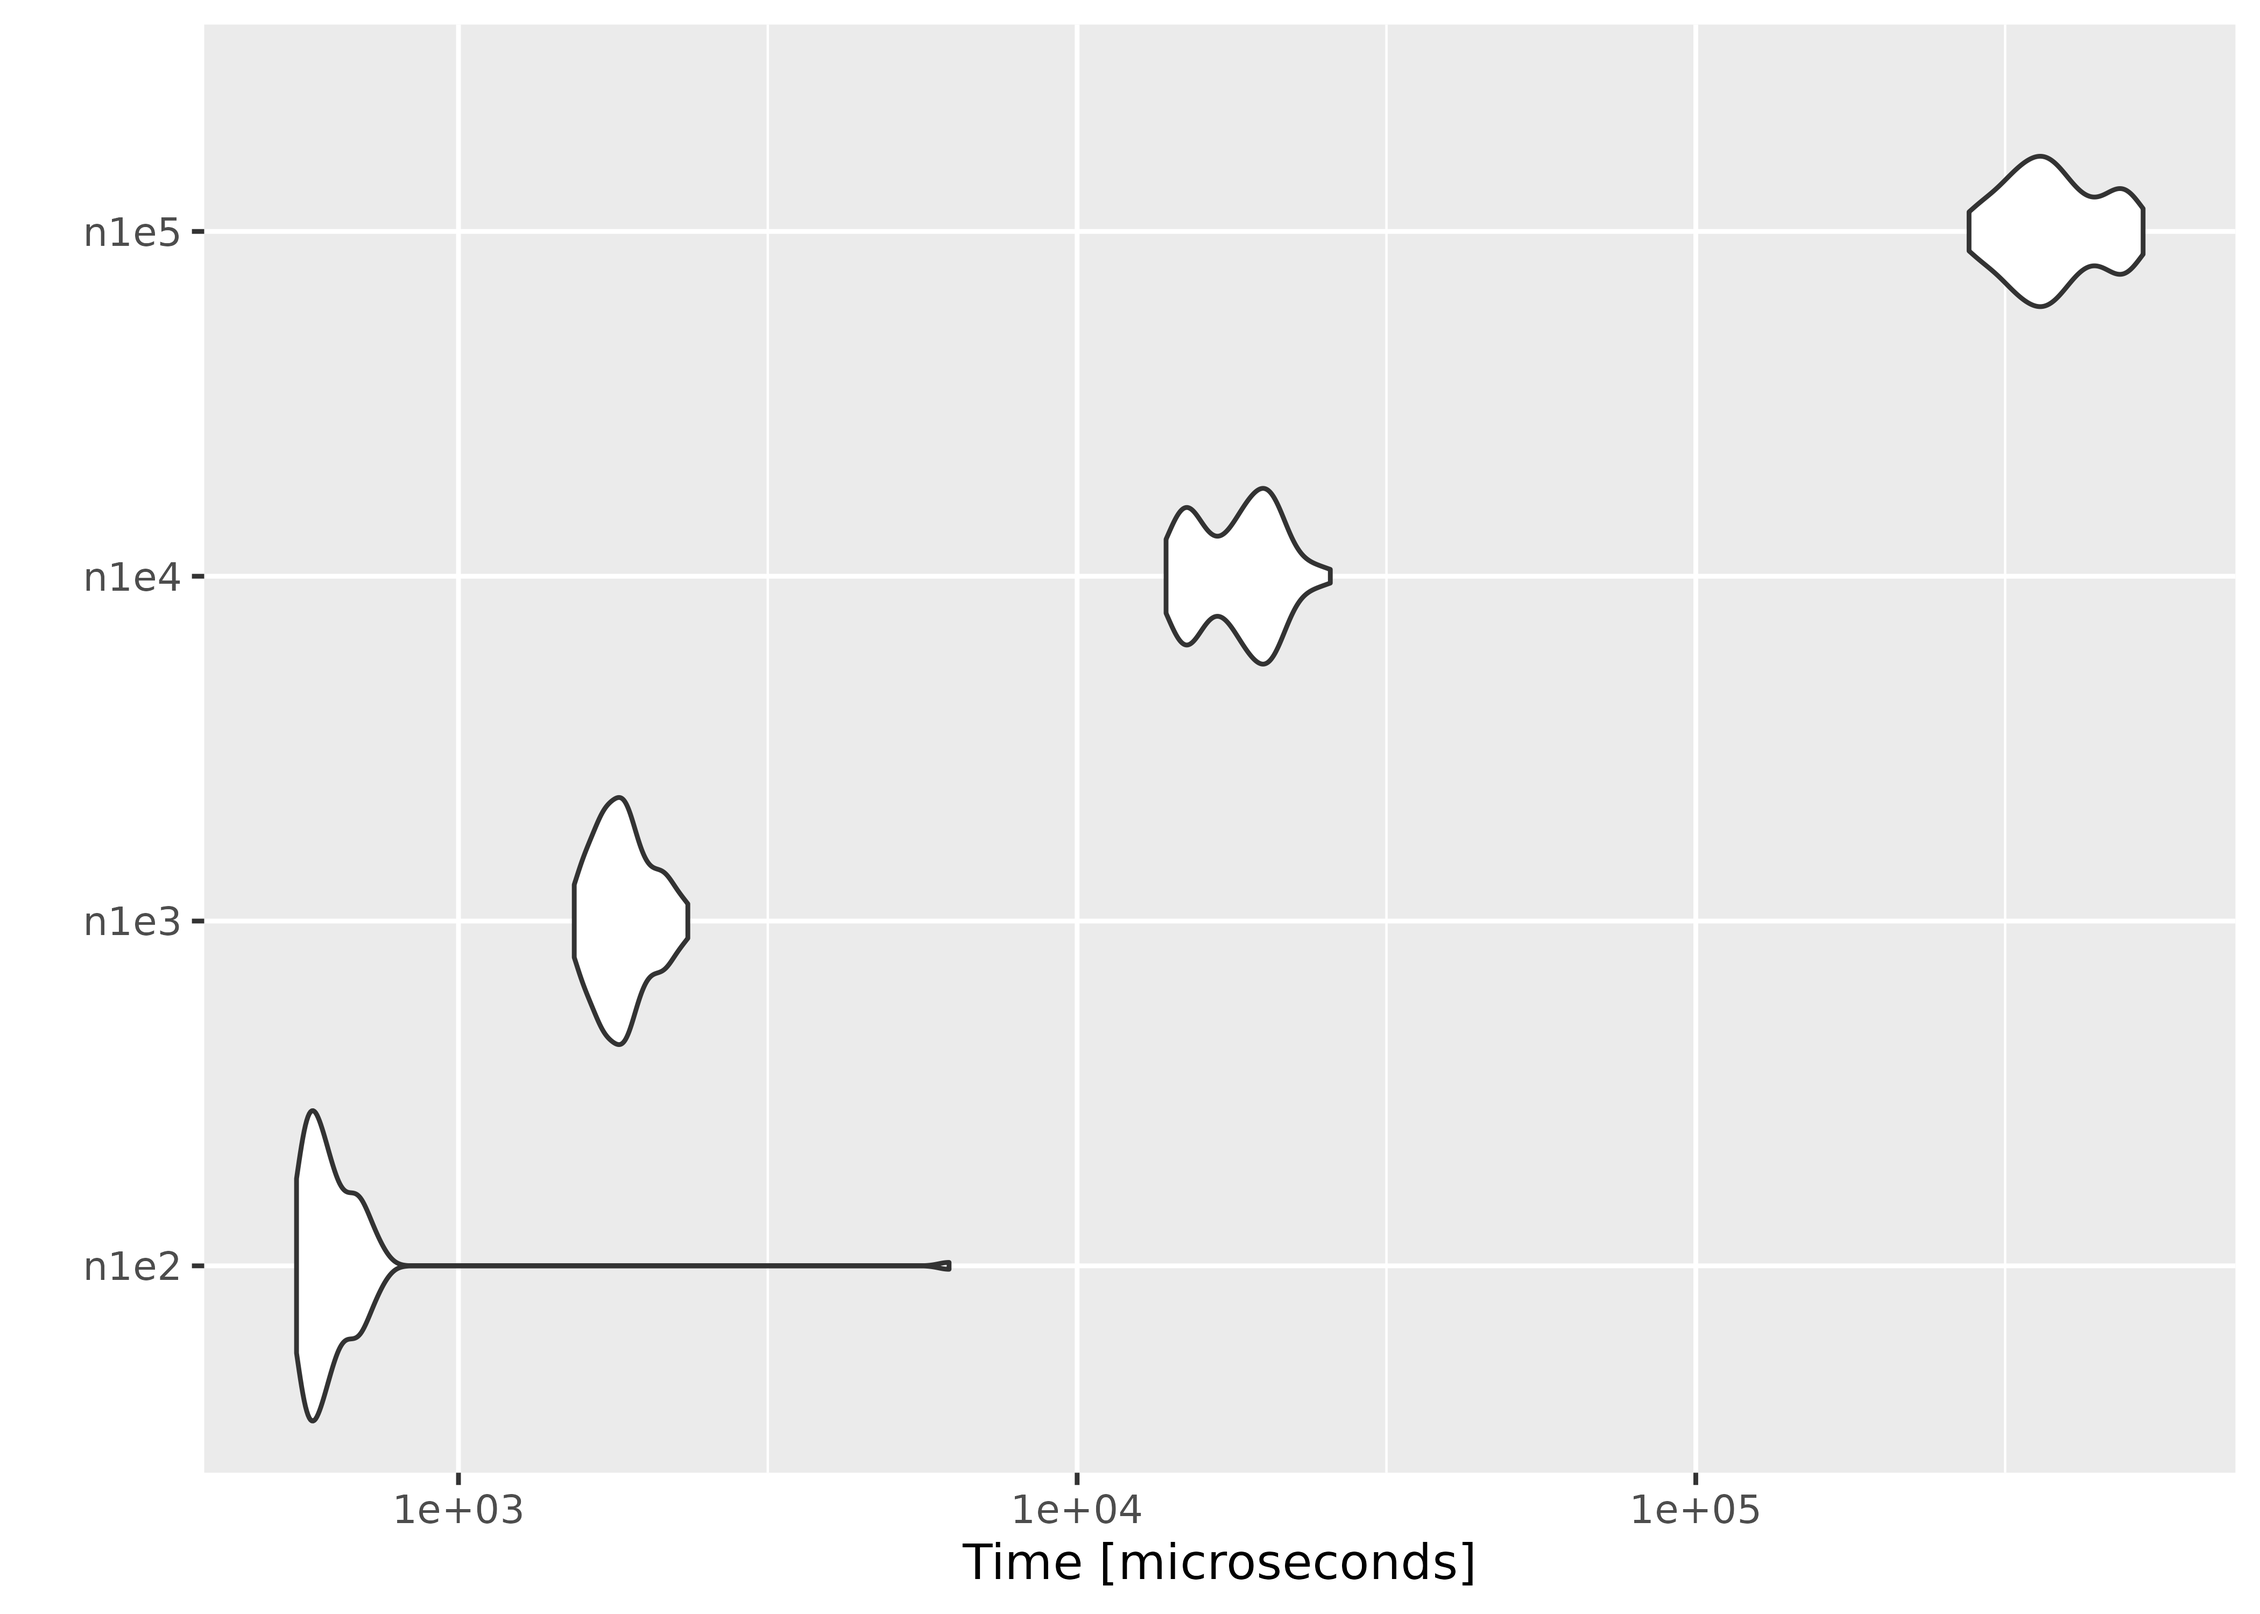
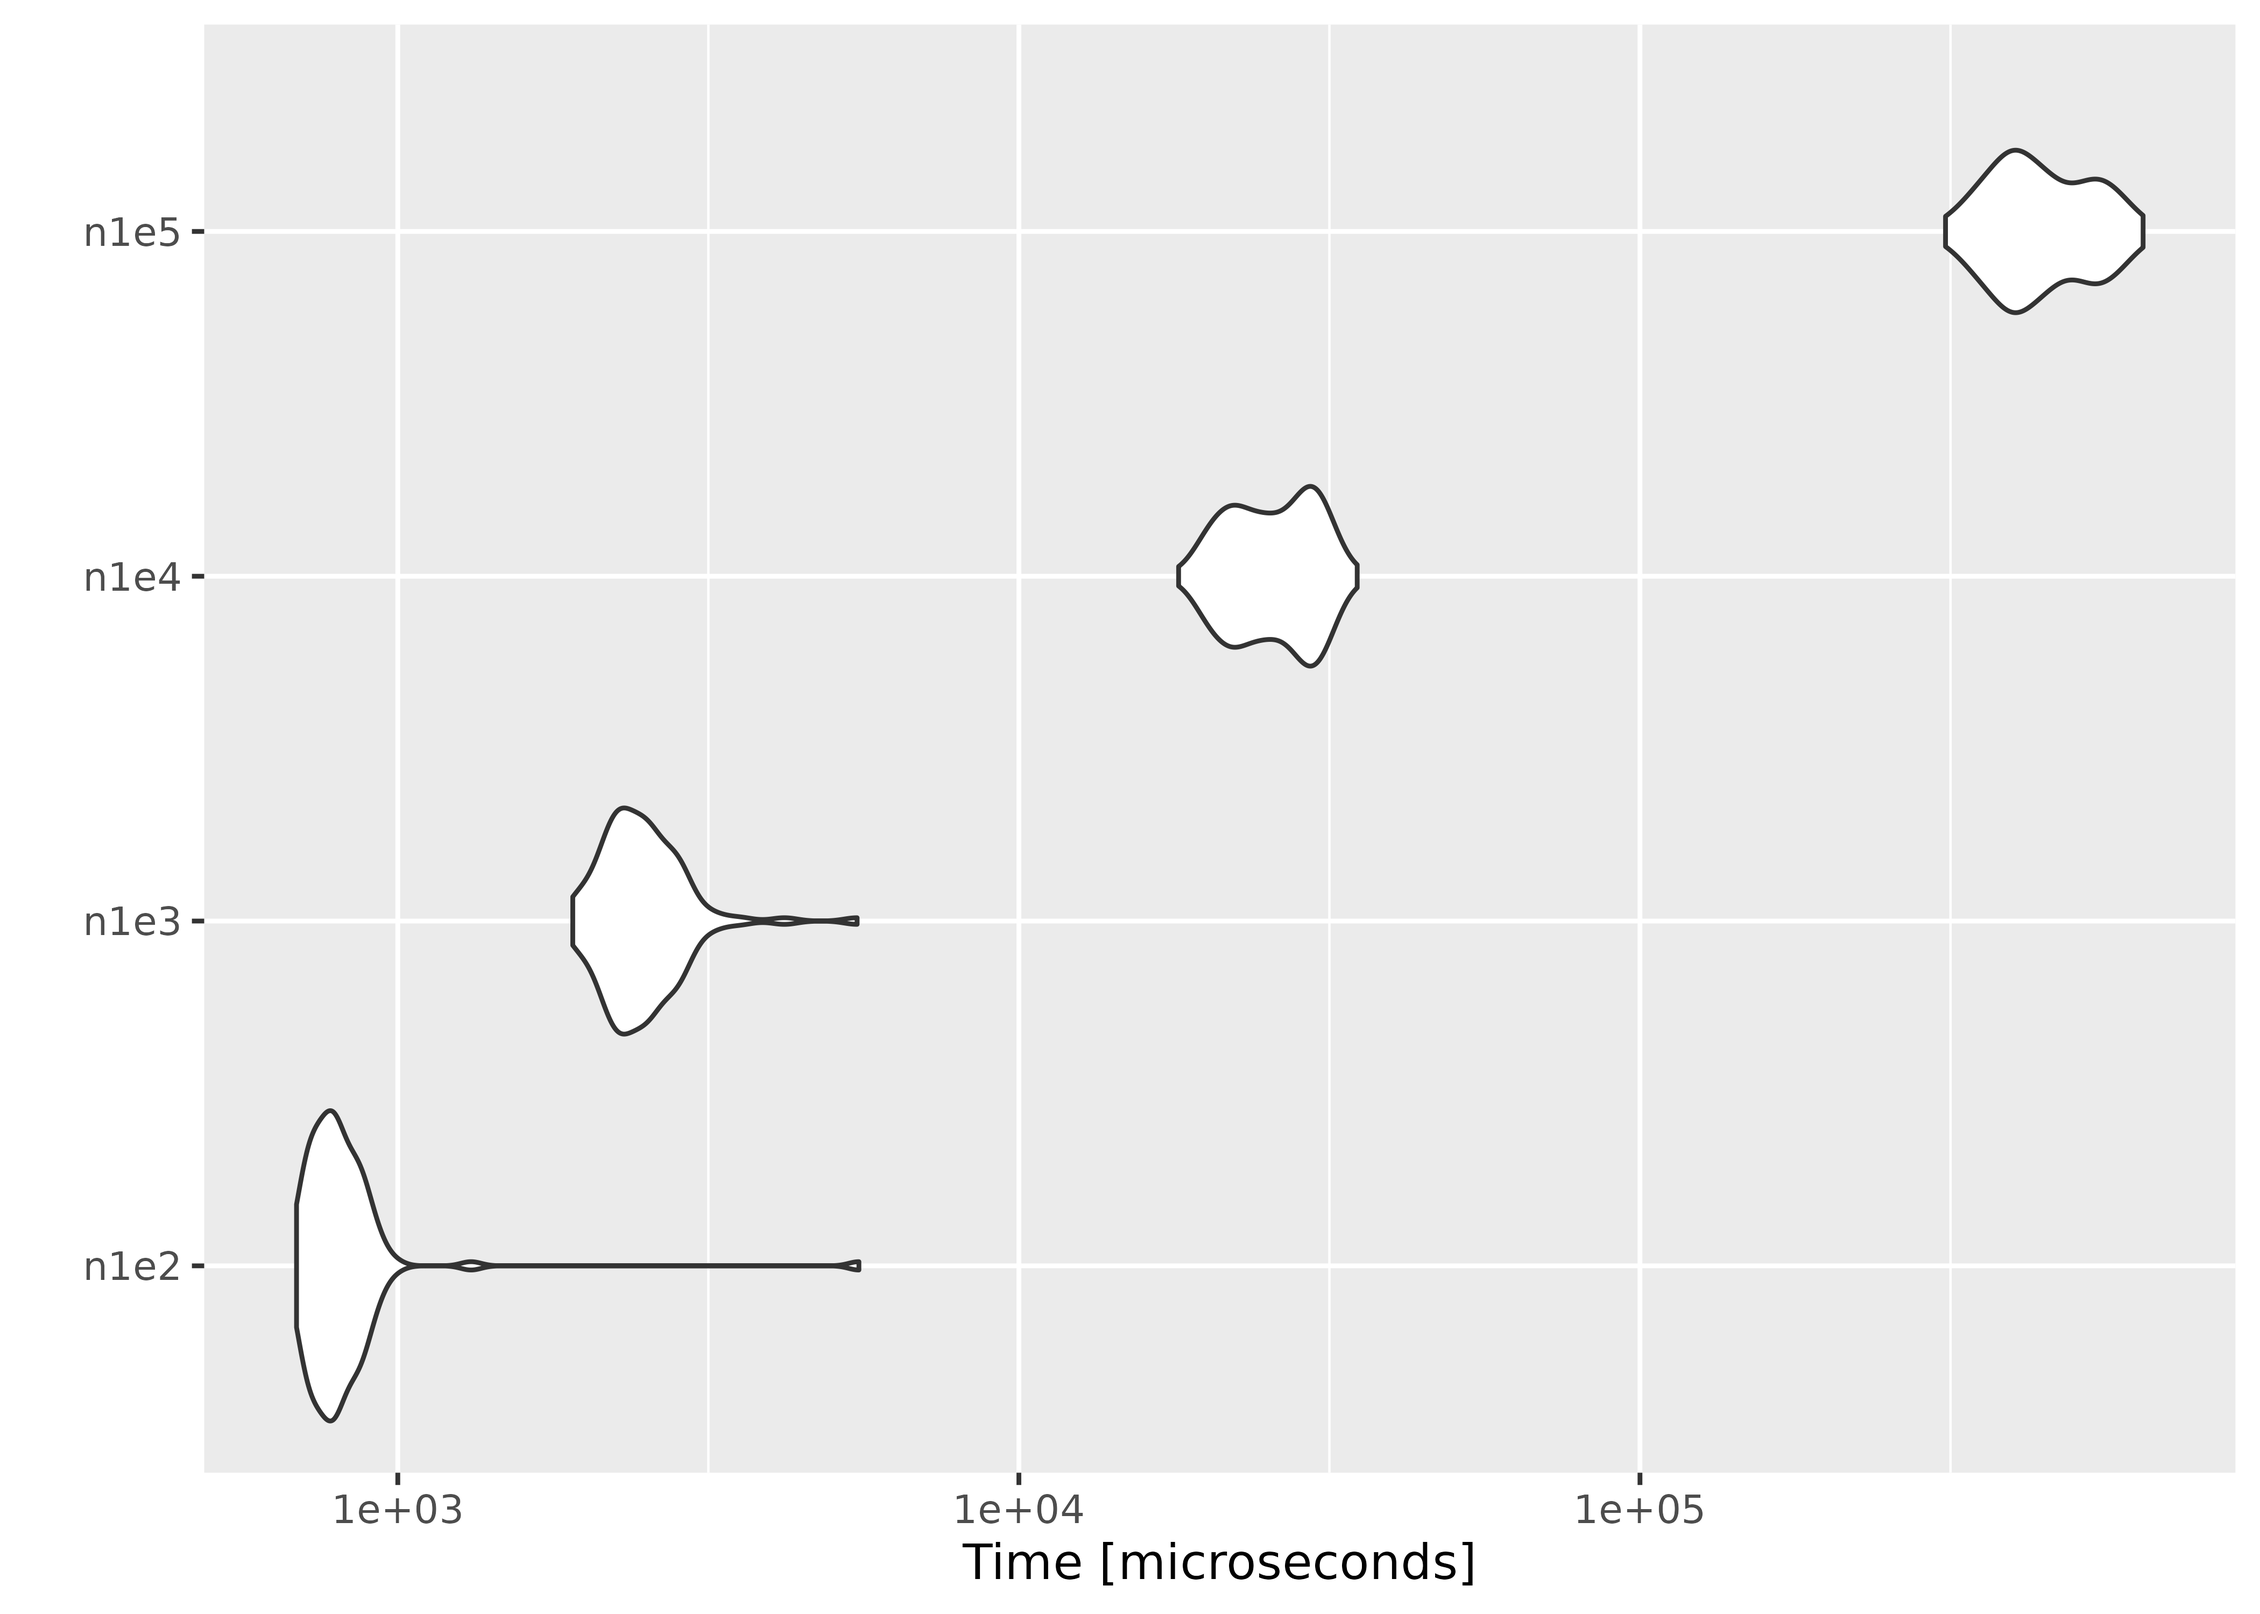
Deploying to gh-pages from @ ropensci/melt@85ef3fd802c0e36e269782a580579c37b2196001 🚀

diff --git a/articles/performance.html b/articles/performance.html
@@ -128,10 +128,10 @@
 <code class="sourceCode R"><span><span class="va">result</span></span>
 <span><span class="co">#&gt; Unit: microseconds</span></span>
 <span><span class="co">#&gt;  expr      min        lq       mean    median        uq      max neval</span></span>
-<span><span class="co">#&gt;  n1e2    547.3    572.95    673.062    602.75    664.20   6209.0   100</span></span>
-<span><span class="co">#&gt;  n1e3   1538.6   1705.30   1850.201   1827.30   1960.70   2348.2   100</span></span>
-<span><span class="co">#&gt;  n1e4  13923.4  15243.55  18242.543  18547.65  20397.25  25658.8   100</span></span>
-<span><span class="co">#&gt;  n1e5 276503.9 329704.85 383841.955 371183.50 430357.40 528492.5   100</span></span>
+<span><span class="co">#&gt;  n1e2    687.0    740.25    847.639    787.75    853.75   5526.1   100</span></span>
+<span><span class="co">#&gt;  n1e3   1913.0   2246.20   2501.528   2422.25   2687.40   5489.5   100</span></span>
+<span><span class="co">#&gt;  n1e4  18078.9  22212.60  25914.784  25694.35  29543.35  35050.7   100</span></span>
+<span><span class="co">#&gt;  n1e5 310425.6 389606.85 449851.890 430836.45 525095.85 645741.6   100</span></span>
 <span><span class="fu"><a href="https://ggplot2.tidyverse.org/reference/autoplot.html" class="external-link">autoplot</a></span><span class="op">(</span><span class="va">result</span><span class="op">)</span></span></code></pre></div>
 <p><img src="performance_files/figure-html/unnamed-chunk-3-1.png" width="100%" style="display: block; margin: auto;"></p>
 </div>
@@ -161,12 +161,12 @@
 <span><span class="op">)</span></span></code></pre></div>
 <div class="sourceCode" id="cb5"><pre class="downlit sourceCode r">
 <code class="sourceCode R"><span><span class="va">result2</span></span>
-<span><span class="co">#&gt; Unit: microseconds</span></span>
+<span><span class="co">#&gt; Unit: milliseconds</span></span>
 <span><span class="co">#&gt;  expr      min        lq       mean    median        uq      max neval</span></span>
-<span><span class="co">#&gt;    p5    931.4    986.30   1046.257   1045.65   1100.00   1221.8   100</span></span>
-<span><span class="co">#&gt;   p25   3481.5   3588.05   3761.360   3643.20   3757.95   8126.0   100</span></span>
-<span><span class="co">#&gt;  p100  27389.4  30321.10  32286.342  30678.75  33651.65  51201.1   100</span></span>
-<span><span class="co">#&gt;  p400 322484.1 351250.75 395558.805 378823.15 410538.05 584244.9   100</span></span>
+<span><span class="co">#&gt;    p5   1.1217   1.22200   1.337523   1.30755   1.40510   2.2899   100</span></span>
+<span><span class="co">#&gt;   p25   4.2636   4.39915   4.806102   4.53680   4.82835   9.1449   100</span></span>
+<span><span class="co">#&gt;  p100  33.2465  37.59285  41.877191  40.06180  44.38370  68.7627   100</span></span>
+<span><span class="co">#&gt;  p400 367.5520 411.19065 469.371938 446.59025 483.70935 681.8481   100</span></span>
 <span><span class="fu"><a href="https://ggplot2.tidyverse.org/reference/autoplot.html" class="external-link">autoplot</a></span><span class="op">(</span><span class="va">result2</span><span class="op">)</span></span></code></pre></div>
 <p><img src="performance_files/figure-html/unnamed-chunk-5-1.png" width="100%" style="display: block; margin: auto;"> On average, evaluating empirical likelihood with a 100000×10 or 1000×400 matrix at a parameter value satisfying the convex hull constraint takes less than a second.</p>
 </div>
